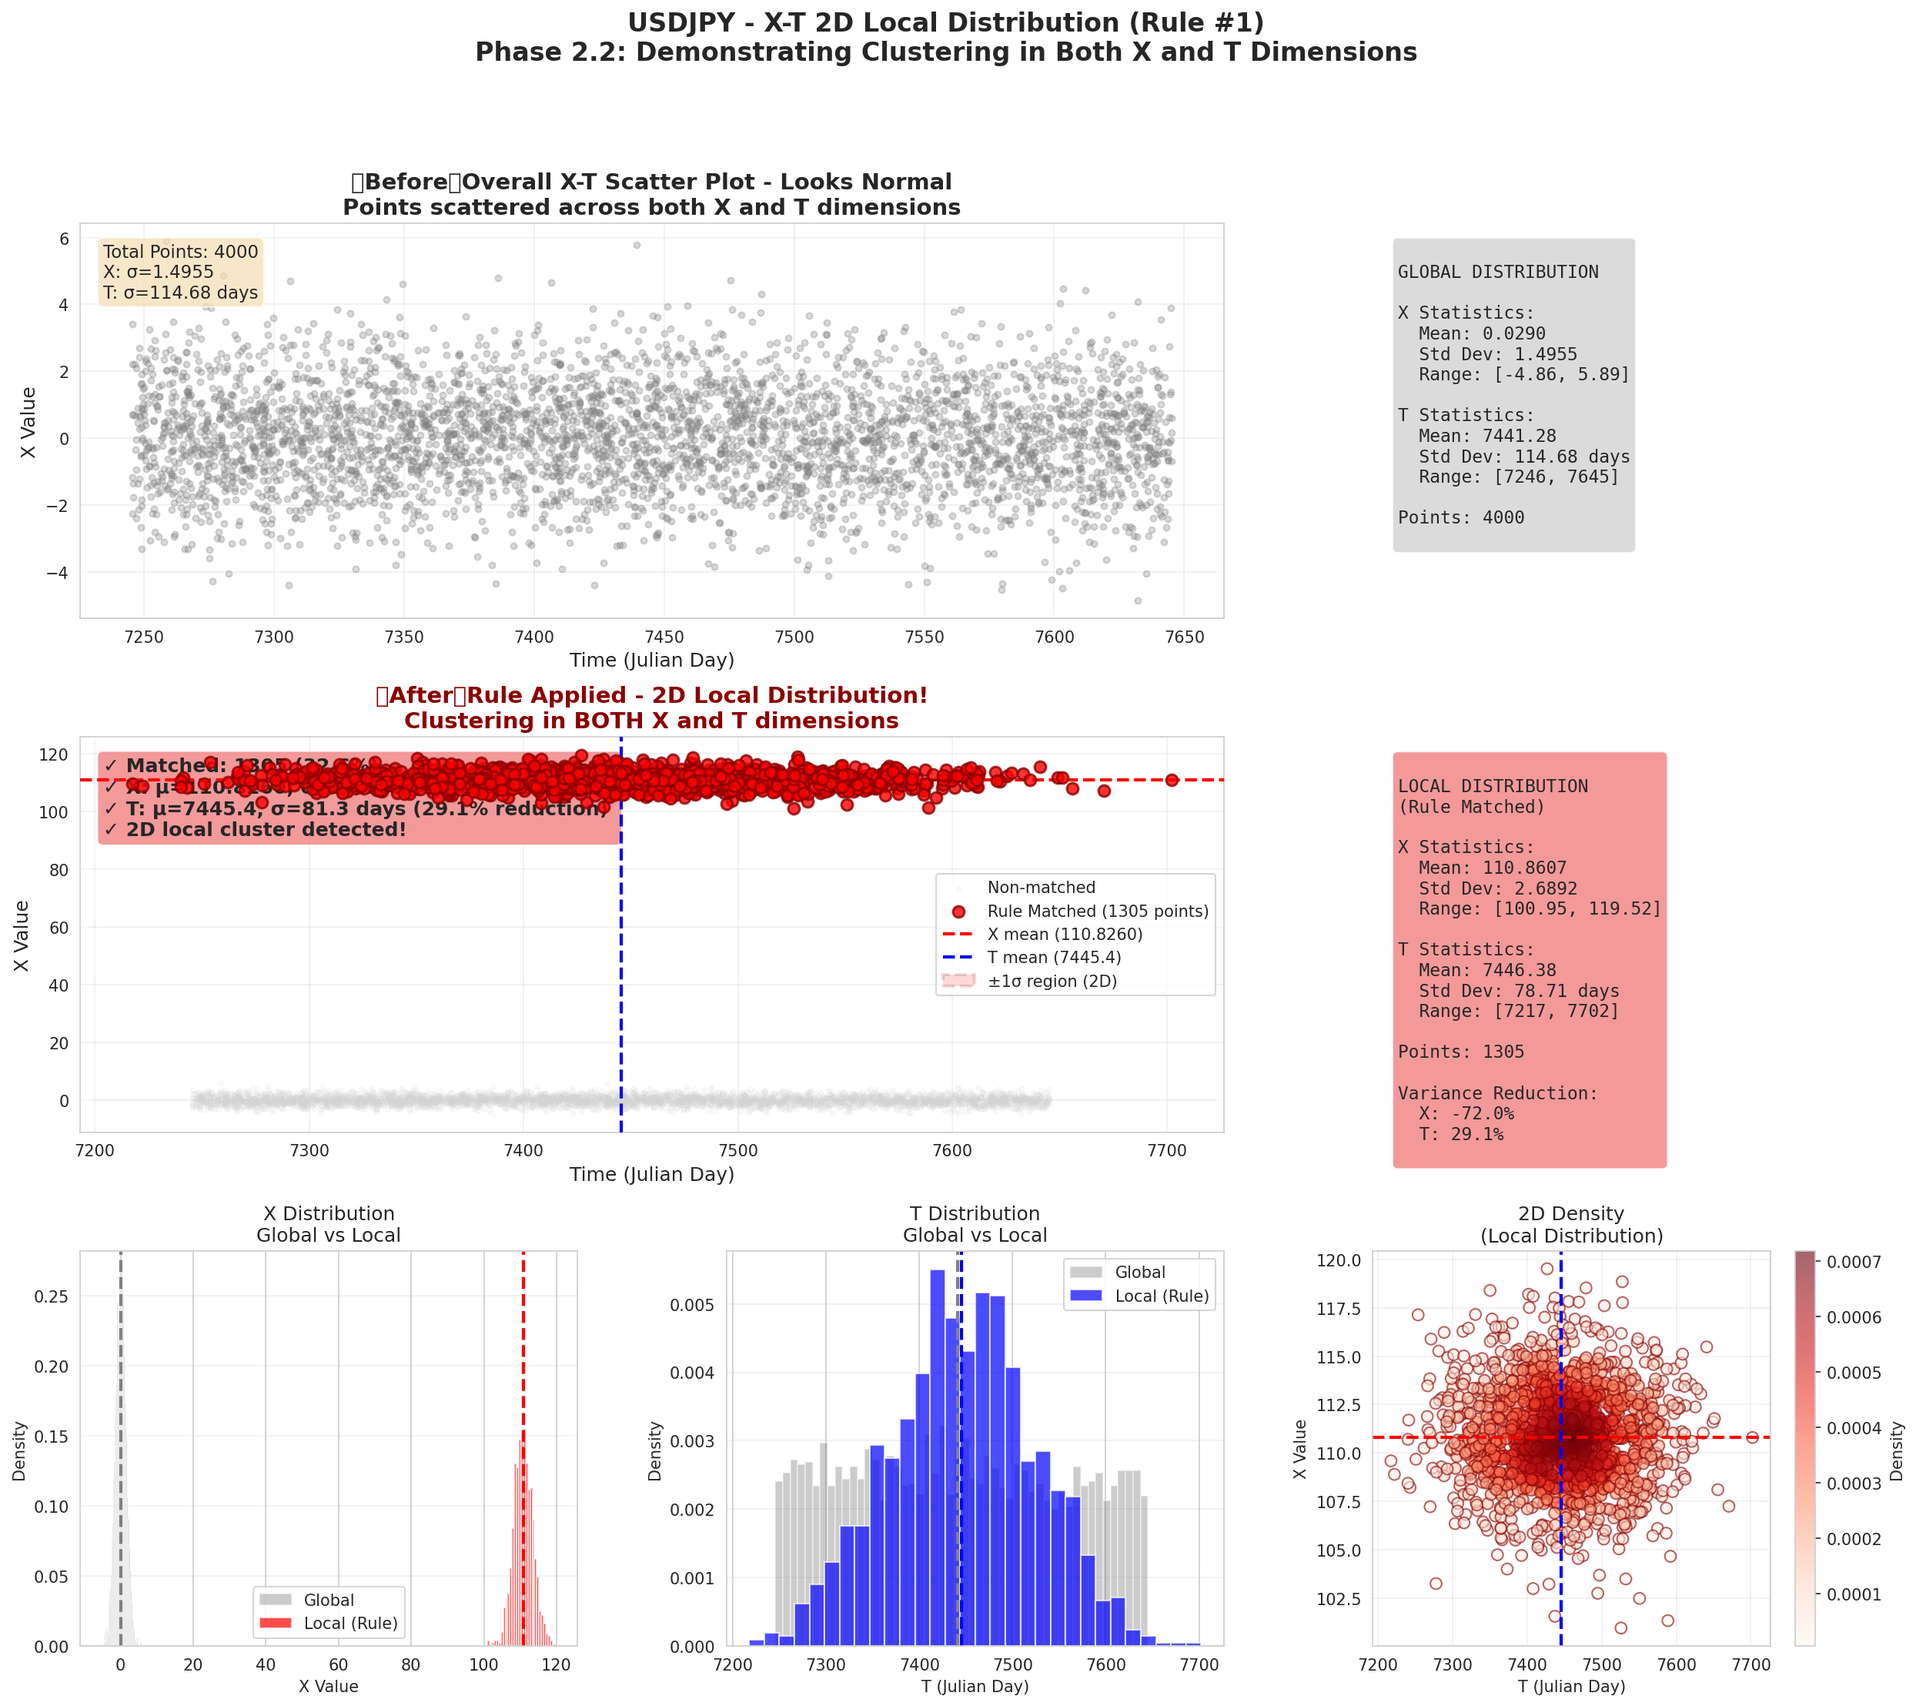
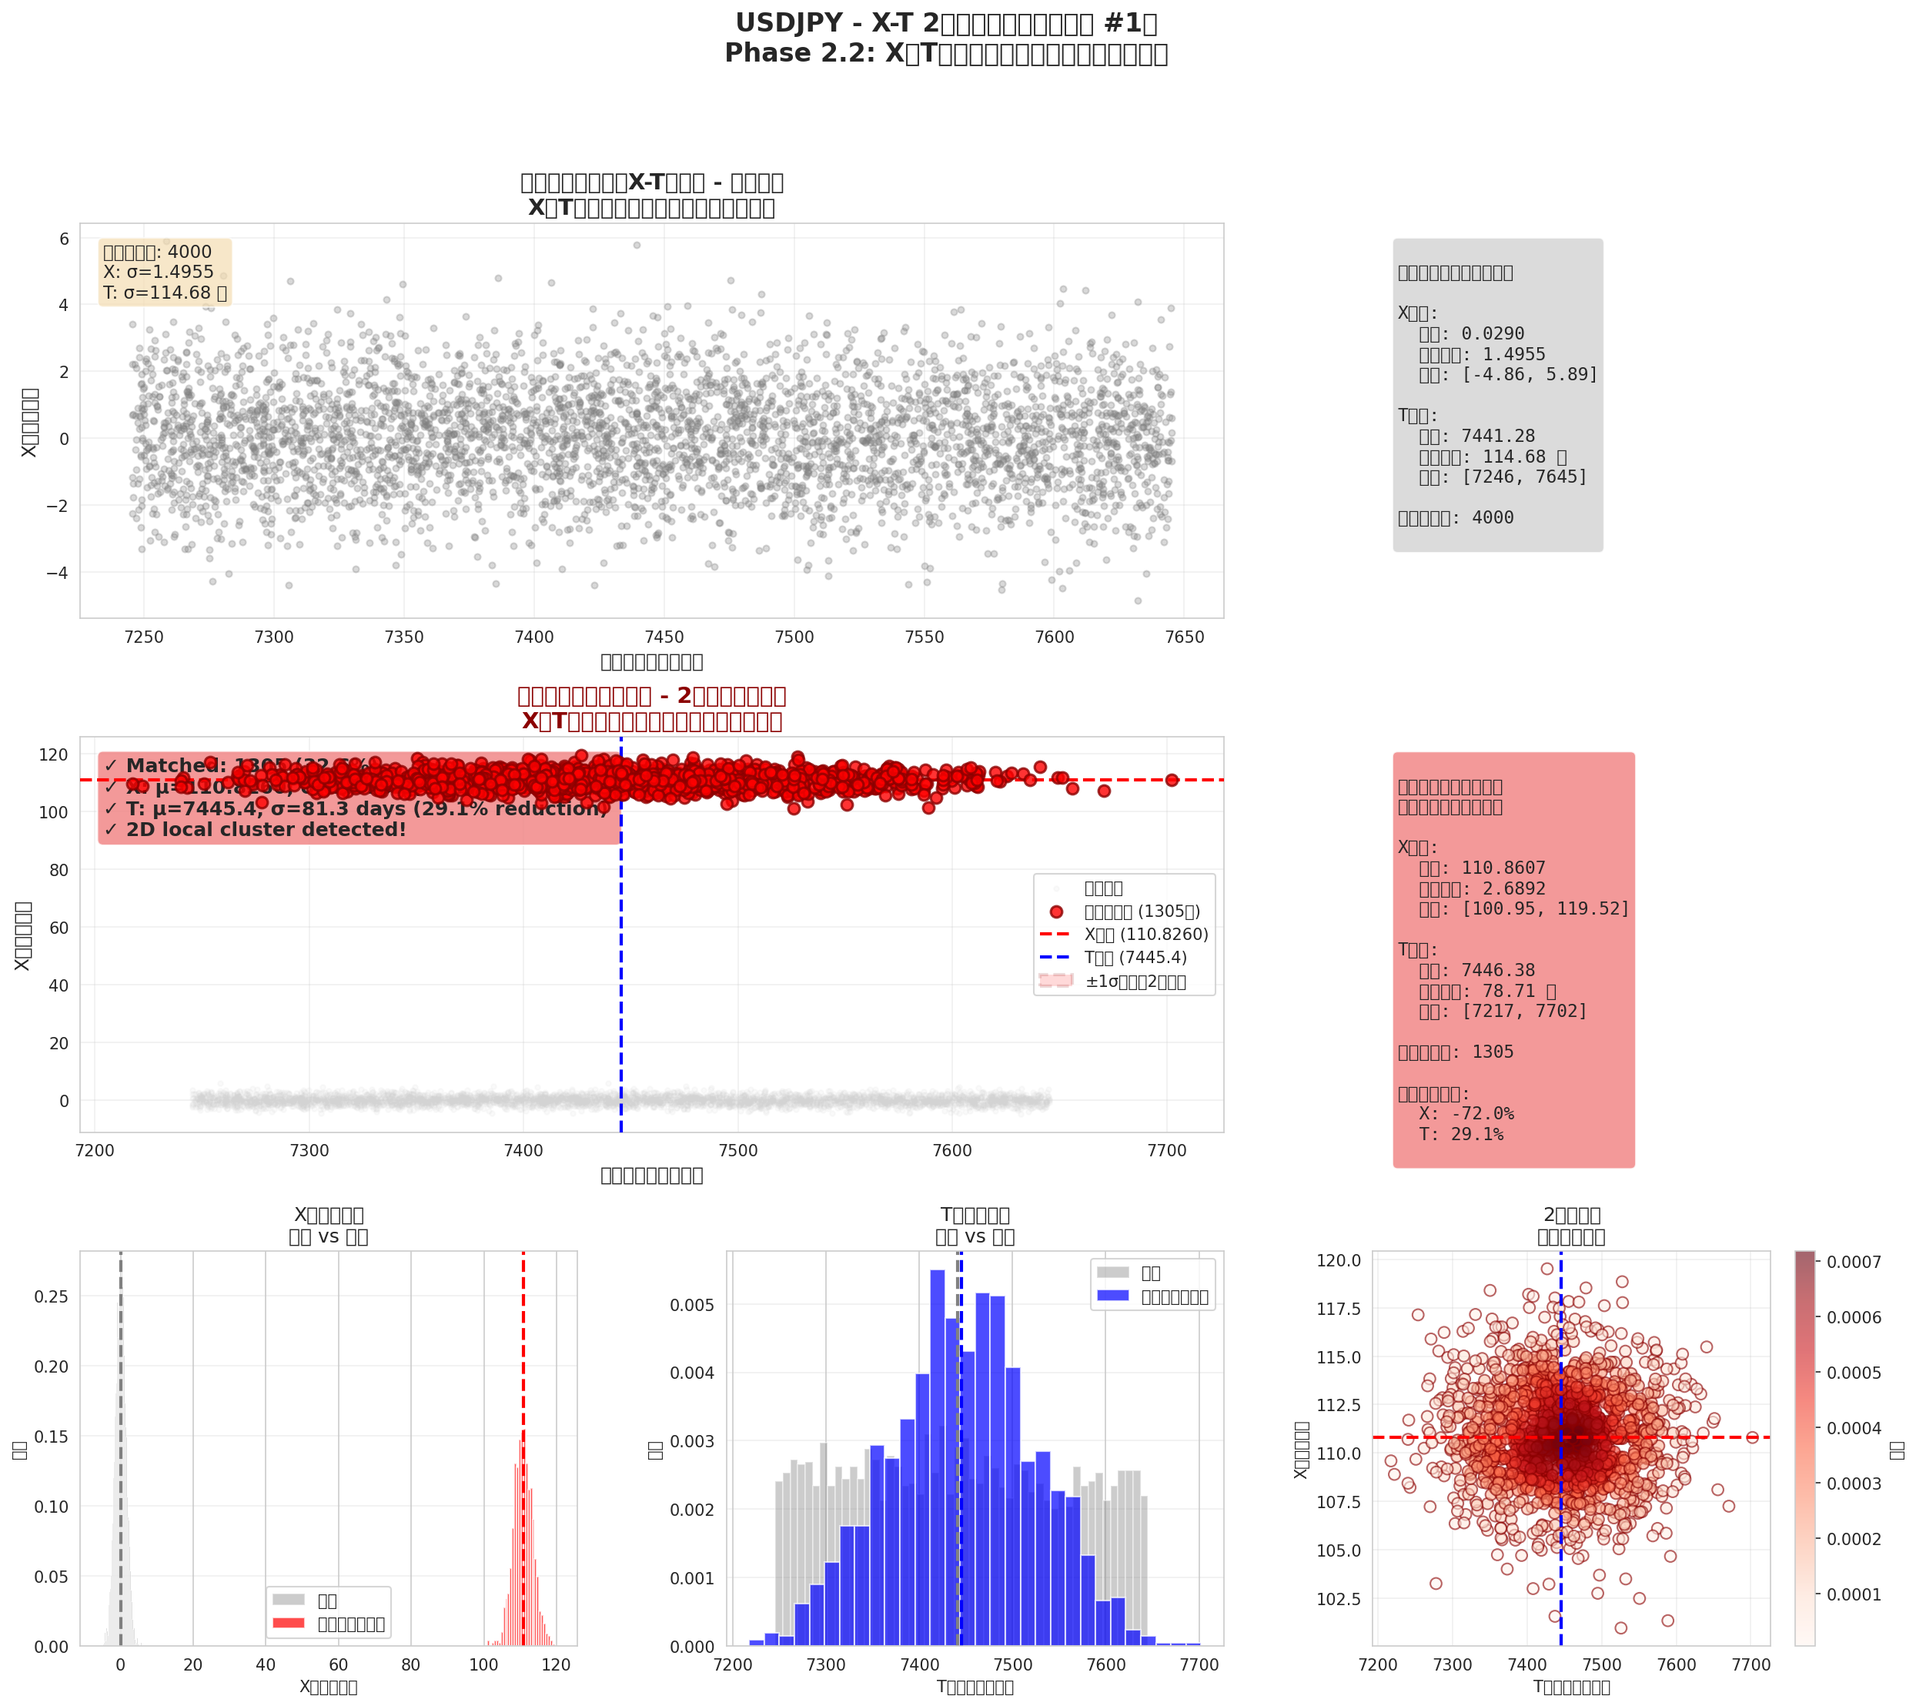
日本語化：2次元X-T局所分布グラフを完全日本語対応
主な変更点:
- Noto Sans JPフォントの自動ダウンロードと設定
- 全てのグラフタイトル・ラベルを日本語化
  - 「適用前/適用後」
  - 「全体分布（グローバル）」「局所分布（ローカル）」
  - 「時間（ユリウス日）」「X値（価格）」
  - 「2次元局所分布」「分散削減効果」
- コンソールメッセージも日本語化
  - 「保存完了」「エラー」「ルール統計情報」
- 文字化け防止対策完了

グラフの内容:
1. 【適用前】全体のX-T散布図（一見普通）
2. 【適用後】ルール適用後（XとT両方向で集中）
3. X分布の比較（全体 vs 局所）
4. T分布の比較（全体 vs 局所）
5. 2次元密度ヒートマップ（局所分布）

これにより、日本語環境でも文字化けなく2D局所分布の
分析結果を視覚的に理解できるようになりました。

🤖 Generated with [Claude Code](https://claude.com/claude-code)

diff --git a/analysis/fx/xt_2d_local_distribution.py b/analysis/fx/xt_2d_local_distribution.py
@@ -18,13 +18,45 @@ Phase 2.2の新機能:
 import pandas as pd
 import numpy as np
 import matplotlib.pyplot as plt
+import matplotlib.font_manager as fm
 import seaborn as sns
 from pathlib import Path
 from datetime import datetime, timedelta
 from matplotlib.patches import Ellipse
 import warnings
+import os
 
 warnings.filterwarnings('ignore')
+
+# 日本語フォント設定
+def setup_japanese_font():
+    """日本語フォントを設定"""
+    # Noto Sans JPフォントのダウンロードと設定
+    font_path = '/tmp/NotoSansJP.ttf'
+
+    # フォントが存在しない場合はダウンロード
+    if not os.path.exists(font_path):
+        print("日本語フォントをダウンロード中...")
+        import urllib.request
+        url = 'https://github.com/google/fonts/raw/main/ofl/notosansjp/NotoSansJP%5Bwght%5D.ttf'
+        try:
+            urllib.request.urlretrieve(url, font_path)
+            print(f"✓ フォントダウンロード完了: {font_path}")
+        except Exception as e:
+            print(f"警告: フォントダウンロード失敗 ({e})")
+            return
+
+    # フォントをmatplotlibに登録
+    try:
+        fm.fontManager.addfont(font_path)
+        plt.rcParams['font.family'] = 'Noto Sans JP'
+        plt.rcParams['font.sans-serif'] = ['Noto Sans JP', 'DejaVu Sans']
+        print("✓ 日本語フォント設定完了")
+    except Exception as e:
+        print(f"警告: フォント設定失敗 ({e})")
+
+# フォント設定を実行
+setup_japanese_font()
 
 # スタイル設定
 sns.set_style("whitegrid")
@@ -48,13 +80,13 @@ class XTLocalDistributionVisualizer:
     def load_rules_with_t_stats(self) -> pd.DataFrame:
         """T統計を含むルールプールを読み込む"""
         if not self.rule_pool_file.exists():
-            print(f"Error: {self.rule_pool_file} not found")
-            print("Please run main.c first to generate rules with T statistics.")
+            print(f"エラー: {self.rule_pool_file} が見つかりません")
+            print("まず main.c を実行してT統計を含むルールを生成してください。")
             return None
 
         try:
             df = pd.read_csv(self.rule_pool_file, sep='\t')
-            print(f"\nLoaded {len(df)} rules from {self.rule_pool_file}")
+            print(f"\n{len(df)}個のルールを読み込みました: {self.rule_pool_file}")
             print(f"Columns: {df.columns.tolist()}")
 
             # T統計カラムの確認
@@ -102,8 +134,8 @@ class XTLocalDistributionVisualizer:
         rule = rules_df.iloc[rule_idx]
 
         print(f"\n{'='*70}")
-        print(f"Visualizing X-T 2D Local Distribution - {self.forex_pair}")
-        print(f"Rule #{rule_idx}")
+        print(f"X-T 2次元局所分布の可視化 - {self.forex_pair}")
+        print(f"ルール #{rule_idx}")
         print(f"{'='*70}\n")
 
         # ルール情報
@@ -114,10 +146,10 @@ class XTLocalDistributionVisualizer:
         support_count = rule.get('support_count', 0)
         support_rate = rule.get('support_rate', 0)
 
-        print(f"Rule Statistics:")
+        print(f"ルール統計情報:")
         print(f"  X: μ={x_mean:.4f}, σ={x_sigma:.4f}")
-        print(f"  T: μ={t_mean:.2f} julian, σ={t_sigma:.2f} days")
-        print(f"  Support: {support_count} ({support_rate*100:.2f}%)")
+        print(f"  T: μ={t_mean:.2f} ユリウス日, σ={t_sigma:.2f} 日")
+        print(f"  サポート: {support_count} ({support_rate*100:.2f}%)")
         print(f"  Start: {rule.get('Start', 'N/A')}")
         print(f"  End: {rule.get('End', 'N/A')}")
 
@@ -141,17 +173,17 @@ class XTLocalDistributionVisualizer:
         # ===== 1. 全体のX-T散布図（普通に見える） =====
         ax1 = fig.add_subplot(gs[0, :2])
         ax1.scatter(global_t_julian, global_x, alpha=0.3, s=15, c='gray')
-        ax1.set_xlabel('Time (Julian Day)', fontsize=12)
-        ax1.set_ylabel('X Value', fontsize=12)
-        ax1.set_title(f'【Before】Overall X-T Scatter Plot - Looks Normal\n'
-                     f'Points scattered across both X and T dimensions',
+        ax1.set_xlabel('時間（ユリウス日）', fontsize=12)
+        ax1.set_ylabel('X値（価格）', fontsize=12)
+        ax1.set_title(f'【適用前】全体のX-T散布図 - 一見普通\n'
+                     f'XとTの両方向にデータが分散している',
                      fontsize=14, fontweight='bold')
         ax1.grid(True, alpha=0.3)
 
         # 統計情報
-        ax1.text(0.02, 0.95, f'Total Points: {n_points}\n'
+        ax1.text(0.02, 0.95, f'全データ点: {n_points}\n'
                             f'X: σ={global_x.std():.4f}\n'
-                            f'T: σ={global_t_julian.std():.2f} days',
+                            f'T: σ={global_t_julian.std():.2f} 日',
                 transform=ax1.transAxes, verticalalignment='top',
                 bbox=dict(boxstyle='round', facecolor='wheat', alpha=0.7),
                 fontsize=11)
@@ -160,19 +192,19 @@ class XTLocalDistributionVisualizer:
         ax2 = fig.add_subplot(gs[0, 2])
         ax2.axis('off')
         global_stats_text = f"""
-GLOBAL DISTRIBUTION
+全体分布（グローバル）
 
-X Statistics:
-  Mean: {global_x.mean():.4f}
-  Std Dev: {global_x.std():.4f}
-  Range: [{global_x.min():.2f}, {global_x.max():.2f}]
+X統計:
+  平均: {global_x.mean():.4f}
+  標準偏差: {global_x.std():.4f}
+  範囲: [{global_x.min():.2f}, {global_x.max():.2f}]
 
-T Statistics:
-  Mean: {global_t_julian.mean():.2f}
-  Std Dev: {global_t_julian.std():.2f} days
-  Range: [{global_t_julian.min():.0f}, {global_t_julian.max():.0f}]
+T統計:
+  平均: {global_t_julian.mean():.2f}
+  標準偏差: {global_t_julian.std():.2f} 日
+  範囲: [{global_t_julian.min():.0f}, {global_t_julian.max():.0f}]
 
-Points: {n_points}
+データ点数: {n_points}
         """
         ax2.text(0.05, 0.95, global_stats_text, transform=ax2.transAxes,
                 fontsize=11, verticalalignment='top', family='monospace',
@@ -183,18 +215,18 @@ Points: {n_points}
 
         # 全体データ（薄く）
         ax3.scatter(global_t_julian, global_x, alpha=0.1, s=10, c='lightgray',
-                   label='Non-matched')
+                   label='非マッチ')
 
         # ルールマッチデータ（強調）
         ax3.scatter(local_t_julian, local_x, alpha=0.8, s=50, c='red',
                    edgecolors='darkred', linewidth=1.5,
-                   label=f'Rule Matched ({n_local} points)', zorder=5)
+                   label=f'ルール適合 ({n_local}点)', zorder=5)
 
         # 局所平均
         ax3.axhline(x_mean, color='red', linestyle='--', linewidth=2,
-                   label=f'X mean ({x_mean:.4f})', zorder=4)
+                   label=f'X平均 ({x_mean:.4f})', zorder=4)
         ax3.axvline(t_mean, color='blue', linestyle='--', linewidth=2,
-                   label=f'T mean ({t_mean:.1f})', zorder=4)
+                   label=f'T平均 ({t_mean:.1f})', zorder=4)
 
         # 2次元楕円（±1σ領域）
         ellipse = Ellipse((t_mean, x_mean),
@@ -202,13 +234,13 @@ Points: {n_points}
                          height=x_sigma * 2,
                          fill=True, facecolor='red', alpha=0.15,
                          edgecolor='darkred', linewidth=2, linestyle='--',
-                         label='±1σ region (2D)', zorder=3)
+                         label='±1σ領域（2次元）', zorder=3)
         ax3.add_patch(ellipse)
 
-        ax3.set_xlabel('Time (Julian Day)', fontsize=12)
-        ax3.set_ylabel('X Value', fontsize=12)
-        ax3.set_title(f'【After】Rule Applied - 2D Local Distribution!\n'
-                     f'Clustering in BOTH X and T dimensions',
+        ax3.set_xlabel('時間（ユリウス日）', fontsize=12)
+        ax3.set_ylabel('X値（価格）', fontsize=12)
+        ax3.set_title(f'【適用後】ルール適用 - 2次元局所分布！\n'
+                     f'XとTの両方向で集中（クラスタリング）',
                      fontsize=14, fontweight='bold', color='darkred')
         ax3.legend(fontsize=10)
         ax3.grid(True, alpha=0.3)
@@ -230,22 +262,22 @@ Points: {n_points}
         ax4 = fig.add_subplot(gs[1, 2])
         ax4.axis('off')
         local_stats_text = f"""
-LOCAL DISTRIBUTION
-(Rule Matched)
+局所分布（ローカル）
+（ルール適合データ）
 
-X Statistics:
-  Mean: {local_x.mean():.4f}
-  Std Dev: {local_x.std():.4f}
-  Range: [{local_x.min():.2f}, {local_x.max():.2f}]
+X統計:
+  平均: {local_x.mean():.4f}
+  標準偏差: {local_x.std():.4f}
+  範囲: [{local_x.min():.2f}, {local_x.max():.2f}]
 
-T Statistics:
-  Mean: {local_t_julian.mean():.2f}
-  Std Dev: {local_t_julian.std():.2f} days
-  Range: [{local_t_julian.min():.0f}, {local_t_julian.max():.0f}]
+T統計:
+  平均: {local_t_julian.mean():.2f}
+  標準偏差: {local_t_julian.std():.2f} 日
+  範囲: [{local_t_julian.min():.0f}, {local_t_julian.max():.0f}]
 
-Points: {n_local}
+データ点数: {n_local}
 
-Variance Reduction:
+分散削減効果:
   X: {x_reduction:.1f}%
   T: {t_reduction:.1f}%
         """
@@ -255,25 +287,25 @@ Variance Reduction:
 
         # ===== 5. Xの分布比較 =====
         ax5 = fig.add_subplot(gs[2, 0])
-        ax5.hist(global_x, bins=50, alpha=0.4, color='gray', label='Global', density=True)
-        ax5.hist(local_x, bins=30, alpha=0.7, color='red', label='Local (Rule)', density=True)
+        ax5.hist(global_x, bins=50, alpha=0.4, color='gray', label='全体', density=True)
+        ax5.hist(local_x, bins=30, alpha=0.7, color='red', label='局所（ルール）', density=True)
         ax5.axvline(global_x.mean(), color='gray', linestyle='--', linewidth=2)
         ax5.axvline(x_mean, color='red', linestyle='--', linewidth=2)
-        ax5.set_xlabel('X Value')
-        ax5.set_ylabel('Density')
-        ax5.set_title('X Distribution\nGlobal vs Local')
+        ax5.set_xlabel('X値（価格）')
+        ax5.set_ylabel('密度')
+        ax5.set_title('X分布の比較\n全体 vs 局所')
         ax5.legend()
         ax5.grid(True, alpha=0.3, axis='y')
 
         # ===== 6. Tの分布比較 =====
         ax6 = fig.add_subplot(gs[2, 1])
-        ax6.hist(global_t_julian, bins=50, alpha=0.4, color='gray', label='Global', density=True)
-        ax6.hist(local_t_julian, bins=30, alpha=0.7, color='blue', label='Local (Rule)', density=True)
+        ax6.hist(global_t_julian, bins=50, alpha=0.4, color='gray', label='全体', density=True)
+        ax6.hist(local_t_julian, bins=30, alpha=0.7, color='blue', label='局所（ルール）', density=True)
         ax6.axvline(global_t_julian.mean(), color='gray', linestyle='--', linewidth=2)
         ax6.axvline(t_mean, color='blue', linestyle='--', linewidth=2)
-        ax6.set_xlabel('T (Julian Day)')
-        ax6.set_ylabel('Density')
-        ax6.set_title('T Distribution\nGlobal vs Local')
+        ax6.set_xlabel('T（ユリウス日）')
+        ax6.set_ylabel('密度')
+        ax6.set_title('T分布の比較\n全体 vs 局所')
         ax6.legend()
         ax6.grid(True, alpha=0.3, axis='y')
 
@@ -288,32 +320,32 @@ Variance Reduction:
                 z = gaussian_kde(xy)(xy)
                 scatter = ax7.scatter(local_t_julian, local_x, c=z, s=50,
                                     cmap='Reds', alpha=0.6, edgecolors='darkred')
-                plt.colorbar(scatter, ax=ax7, label='Density')
+                plt.colorbar(scatter, ax=ax7, label='密度')
             except:
                 ax7.scatter(local_t_julian, local_x, c='red', s=50, alpha=0.6)
 
         ax7.axhline(x_mean, color='red', linestyle='--', linewidth=2)
         ax7.axvline(t_mean, color='blue', linestyle='--', linewidth=2)
-        ax7.set_xlabel('T (Julian Day)')
-        ax7.set_ylabel('X Value')
-        ax7.set_title('2D Density\n(Local Distribution)')
+        ax7.set_xlabel('T（ユリウス日）')
+        ax7.set_ylabel('X値（価格）')
+        ax7.set_title('2次元密度\n（局所分布）')
         ax7.grid(True, alpha=0.3)
 
         # 全体タイトル
-        fig.suptitle(f'{self.forex_pair} - X-T 2D Local Distribution (Rule #{rule_idx})\n'
-                    f'Phase 2.2: Demonstrating Clustering in Both X and T Dimensions',
+        fig.suptitle(f'{self.forex_pair} - X-T 2次元局所分布（ルール #{rule_idx}）\n'
+                    f'Phase 2.2: XとTの両方向での局所的な集中を実証',
                     fontsize=16, fontweight='bold', y=0.995)
 
         # 保存
         output_file = self.vis_dir / f'xt_2d_local_distribution_rule_{rule_idx:04d}.png'
         plt.savefig(output_file, dpi=150, bbox_inches='tight')
-        print(f"\n✓ Saved: {output_file}\n")
+        print(f"\n✓ 保存完了: {output_file}\n")
         plt.close()
 
     def analyze_top_rules(self, n_rules: int = 5):
         """上位N個のルールを分析"""
         print(f"\n{'='*70}")
-        print(f"Analyzing Top {n_rules} Rules - X-T 2D Local Distribution")
+        print(f"上位{n_rules}ルールの分析 - X-T 2次元局所分布")
         print(f"{'='*70}\n")
 
         for i in range(n_rules):
